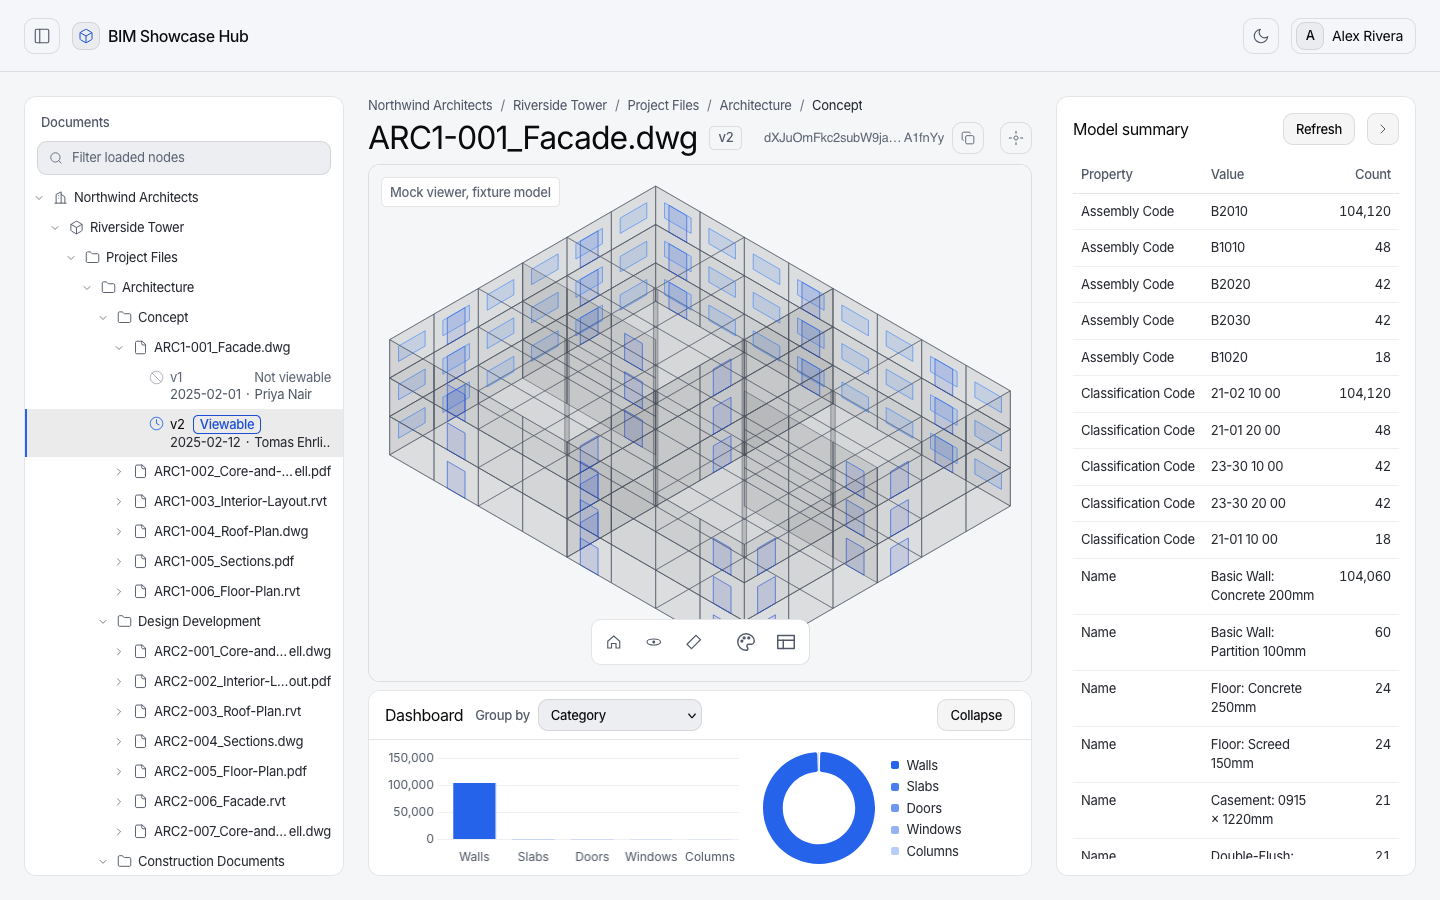
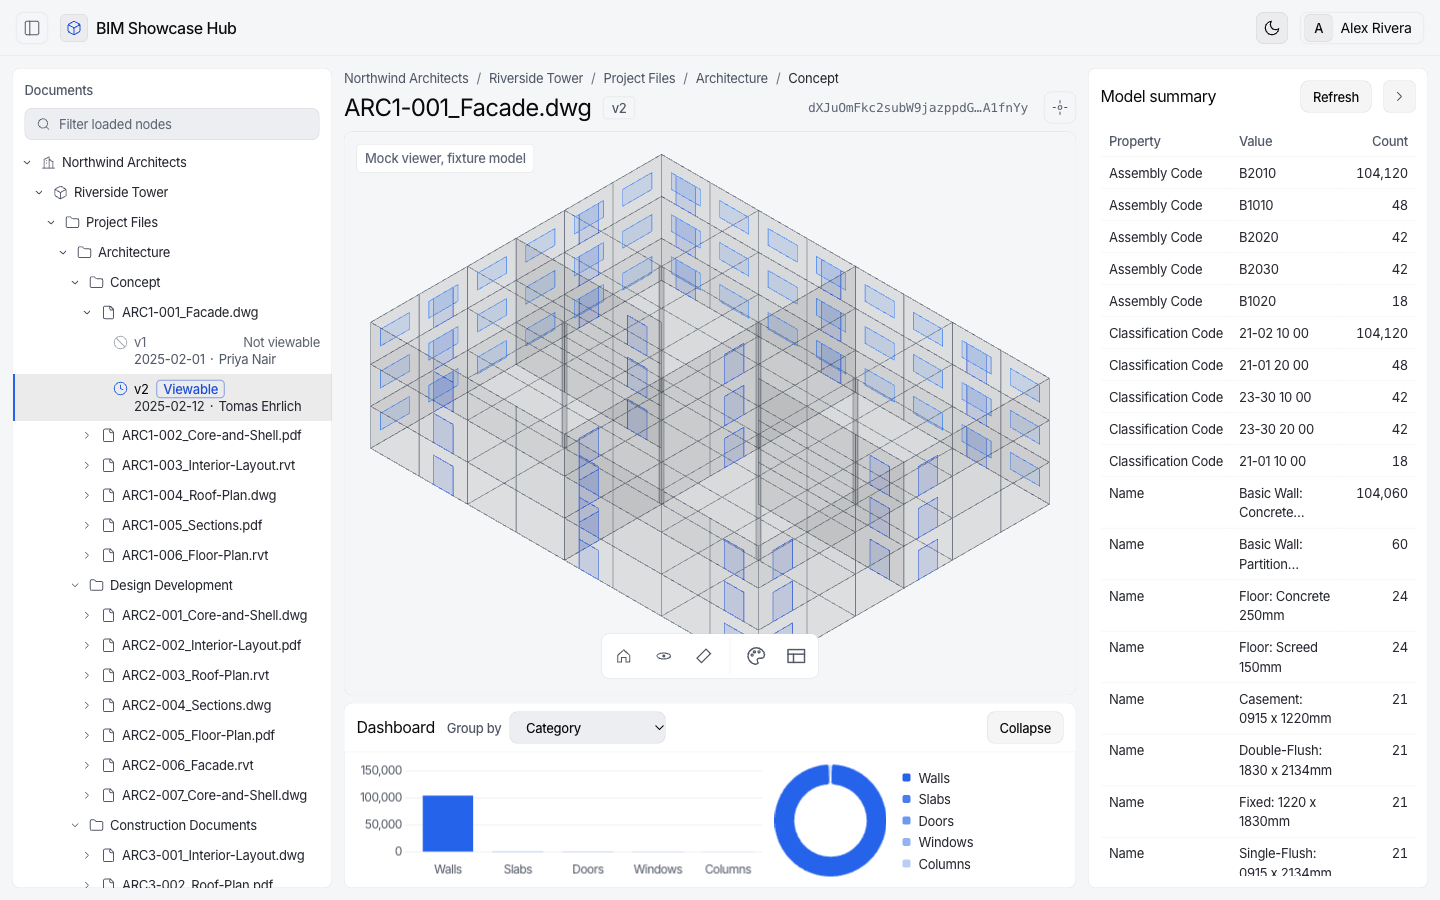
style(web): tighten spacing and radii

diff --git a/src/web/styles/shell.css b/src/web/styles/shell.css
@@ -32,8 +32,8 @@
   align-items: center;
   justify-content: center;
   gap: var(--gap-element);
-  min-height: 36px;
-  padding: 0 var(--space-4);
+  min-height: var(--hit-target);
+  padding: 0 var(--space-3);
   border: var(--border-hairline);
   border-radius: var(--radius-button);
   background: var(--color-ghost-fill);
@@ -72,7 +72,7 @@
 }
 
 .btn-small {
-  min-height: 28px;
+  min-height: var(--hit-target);
   padding: 0 var(--space-3);
   font-size: var(--text-13);
 }
@@ -81,8 +81,8 @@
   display: inline-flex;
   align-items: center;
   justify-content: center;
-  width: 36px;
-  height: 36px;
+  width: var(--hit-target);
+  height: var(--hit-target);
   border: var(--border-hairline);
   border-radius: var(--radius-button);
   background: transparent;
@@ -99,8 +99,8 @@
   display: inline-flex;
   align-items: center;
   justify-content: center;
-  width: 40px;
-  height: 40px;
+  width: 32px;
+  height: 32px;
   border: var(--border-hairline);
   border-radius: var(--radius-tile);
   background: var(--color-ghost-fill);
@@ -170,7 +170,7 @@
   align-items: center;
   gap: var(--space-3);
   height: 100%;
-  padding: 0 var(--gutter);
+  padding: 0 var(--gutter-page);
 }
 
 .topbar__spacer {
@@ -213,7 +213,7 @@
   display: inline-flex;
   align-items: center;
   gap: var(--gap-element);
-  min-height: 36px;
+  min-height: var(--hit-target);
   padding: 0 var(--space-3) 0 var(--space-1);
   border: var(--border-hairline);
   border-radius: var(--radius-button);
@@ -331,7 +331,7 @@
 }
 
 .app-loading {
-  padding: var(--space-8);
+  padding: var(--space-6);
   color: var(--color-fog);
 }
 
@@ -344,7 +344,7 @@
   max-width: 480px;
   min-height: 100%;
   margin: 0 auto;
-  padding: var(--space-8);
+  padding: var(--space-6);
   text-align: center;
 }
 
@@ -397,7 +397,7 @@
   align-items: center;
   justify-content: center;
   min-height: 100%;
-  padding: var(--space-8) var(--gutter);
+  padding: var(--space-8) var(--gutter-page);
 }
 
 .not-found .state-block {
@@ -436,7 +436,7 @@
 }
 
 .not-found .state-block__action {
-  min-height: 36px;
-  padding: 0 var(--space-4);
+  min-height: var(--hit-target);
+  padding: 0 var(--space-3);
   font-size: var(--text-14);
 }

diff --git a/src/web/panels/panels.css b/src/web/panels/panels.css
@@ -4,7 +4,7 @@
   gap: var(--space-3);
   min-width: 0;
   min-height: 0;
-  padding: var(--space-4);
+  padding: var(--padding-panel);
   background: var(--color-graphite);
   border: var(--border-hairline);
   border-radius: var(--radius-card);
@@ -45,7 +45,7 @@
 
 .bsh-button,
 .bsh-select {
-  min-height: 32px;
+  min-height: var(--hit-target);
   padding: 0 var(--space-3);
   background: var(--color-ghost-fill);
   color: var(--color-snow);
@@ -85,8 +85,8 @@
 .bsh-icon-button {
   display: grid;
   place-items: center;
-  width: 32px;
-  height: 32px;
+  width: var(--hit-target);
+  height: var(--hit-target);
   padding: 0;
   background: var(--color-ghost-fill);
   border: var(--border-hairline);
@@ -157,7 +157,7 @@
   position: sticky;
   top: 0;
   z-index: 1;
-  padding: var(--space-2);
+  padding: var(--row-padding);
   background: var(--color-graphite);
   color: var(--color-fog);
   font-weight: var(--weight-label);
@@ -167,7 +167,7 @@
 }
 
 .bsh-table td {
-  padding: var(--space-2);
+  padding: var(--row-padding);
   color: var(--color-chalk);
   border-bottom: 0.5px solid var(--color-hairline-faint);
 }
@@ -230,8 +230,8 @@
   z-index: 2;
   flex-wrap: wrap;
   justify-content: flex-start;
-  min-height: 40px;
-  padding: var(--space-2) var(--space-4);
+  min-height: 36px;
+  padding: var(--space-2) var(--padding-panel);
   background: var(--color-graphite);
   border-radius: var(--radius-card) var(--radius-card) 0 0;
 }
@@ -266,7 +266,7 @@
 
 .bsh-drawer__body {
   height: var(--drawer-body);
-  padding: var(--space-2) var(--space-4);
+  padding: var(--space-2) var(--padding-panel);
   overflow: auto;
   border-top: var(--border-hairline);
 }

diff --git a/src/web/styles/tokens.css b/src/web/styles/tokens.css
@@ -100,6 +100,7 @@
   --text-14: 14px;
   --text-16: 16px;
   --text-18: 18px;
+  --text-24: 24px;
   --text-32: 32px;
   --text-42: 42px;
   --text-52: 52px;
@@ -126,29 +127,33 @@
   --space-8: 32px;
   --space-12: 48px;
   --space-24: 96px;
-  --gutter: var(--space-6);
+  --gutter: var(--space-3);
+  --gutter-page: var(--space-4);
 
   --gap-element: 8px;
-  --padding-card: 28px;
+  --padding-card: var(--space-4);
+  --padding-panel: var(--space-3);
+  --row-padding: 6px var(--space-2);
   --section-gap: 96px;
   --content-max: 1080px;
-  --nav-height: 72px;
+  --nav-height: 56px;
 
-  --radius-badge: 5px;
-  --radius-tile: 9px;
-  --radius-button: 10px;
-  --radius-card: 12px;
-  --radius-container: 24px;
+  --radius-badge: 4px;
+  --radius-tile: 6px;
+  --radius-button: 8px;
+  --radius-card: 8px;
+  --radius-container: 12px;
 
   --border-hairline: 0.5px solid var(--color-hairline);
   --shadow-inset: inset 0 1px 0 var(--color-inset-highlight);
   --ring-width: 2px;
   --ring-offset: 2px;
   --transition-ui: 120ms ease;
+  --hit-target: 32px;
 }
 
-@media (max-width: 700px) {
+@media (pointer: coarse), (max-width: 700px) {
   :root {
-    --gutter: var(--space-4);
+    --hit-target: 44px;
   }
 }

diff --git a/src/web/styles/model.css b/src/web/styles/model.css
@@ -4,12 +4,12 @@
     "head summary"
     "viewer summary"
     "dashboard summary";
-  grid-template-columns: minmax(560px, 1fr) minmax(280px, 360px);
+  grid-template-columns: minmax(560px, 1fr) minmax(280px, 340px);
   grid-template-rows: auto minmax(280px, 1fr) auto;
   transition: grid-template-columns 160ms ease;
   gap: var(--space-2) var(--gutter);
   height: 100%;
-  min-height: 600px;
+  min-height: 560px;
   padding: var(--gutter);
 }
 
@@ -103,7 +103,7 @@
   align-items: center;
   gap: var(--space-3);
   min-width: 0;
-  font-size: var(--text-32);
+  font-size: var(--text-24);
   letter-spacing: var(--tracking-tight);
   line-height: 1.15;
 }

diff --git a/src/web/styles/landing.css b/src/web/styles/landing.css
@@ -5,7 +5,7 @@
 .landing {
   max-width: var(--content-max);
   margin: 0 auto;
-  padding: var(--section-gap) var(--gutter) var(--section-gap);
+  padding: var(--section-gap) var(--gutter-page) var(--section-gap);
 }
 
 .landing__auth-error {
@@ -335,7 +335,7 @@
   gap: var(--space-6);
   max-width: var(--content-max);
   margin: 0 auto;
-  padding: var(--space-12) var(--gutter);
+  padding: var(--space-12) var(--gutter-page);
 }
 
 .landing-footer__name {

diff --git a/src/web/styles/tree.css b/src/web/styles/tree.css
@@ -18,7 +18,7 @@
 }
 
 .tree-panel__head {
-  padding: var(--space-4) var(--space-4) var(--space-2);
+  padding: var(--space-3) var(--space-3) var(--space-2);
 }
 
 .tree-panel__title {
@@ -51,7 +51,7 @@
 
 .doc-tree__search input {
   width: 100%;
-  height: 34px;
+  height: var(--hit-target);
   padding: 0 34px 0 34px;
   border: var(--border-hairline);
   border-radius: var(--radius-button);

diff --git a/src/web/components/tree/DocumentTree.tsx b/src/web/components/tree/DocumentTree.tsx
@@ -507,7 +507,7 @@ export function DocumentTree({
       );
     }
 
-    const indent = `calc(var(--space-2) + ${row.level * 16 + 20}px)`;
+    const indent = `calc(var(--space-2) + ${row.level * 12 + 20}px)`;
     return (
       <div
         key={row.key}

diff --git a/src/web/viewer/viewer.css b/src/web/viewer/viewer.css
@@ -37,7 +37,7 @@
 .bsh-viewer-error {
   align-items: center;
   max-width: min(440px, 88%);
-  padding: var(--space-6);
+  padding: var(--space-4);
   border: var(--border-hairline);
   border-radius: var(--radius-card);
   background: var(--color-graphite);

diff --git a/src/web/components/tree/TreeRowView.tsx b/src/web/components/tree/TreeRowView.tsx
@@ -4,7 +4,7 @@ import { Icon, type IconName } from '../icons.js';
 
 export const ROW_HEIGHT = 30;
 export const TWO_LINE_ROW_HEIGHT = 46;
-const INDENT = 16;
+const INDENT = 12;
 
 const KIND_ICON: Record<TreeNodeKind, IconName> = {
   hub: 'hub',

diff --git a/DESIGN.md b/DESIGN.md
@@ -45,14 +45,17 @@ Green and red are reserved for success and destructive signals. Never decorative
 - Family: Inter variable, with `font-feature-settings: "ss01", "ss03"`.
 - Headlines: weight 400 at 32px and above. Display sizes 52 to 64px.
 - Body and UI: weights 420 to 480, sizes 13 to 18px. Weight 500 for small labels, 580 rarely.
-- Scale: 8, 13, 14, 16, 18, 32, 42, 52, 64px.
+- Scale: 8, 13, 14, 16, 18, 24, 32, 42, 52, 64px. The 24px step is the model page title.
 - Tracking: about -0.02 to -0.03em at body sizes, slightly looser at display sizes.
 
 ## Spacing and shape
 
 - Base unit 4px, compact density.
-- Max content width 1080px. 96px between sections. 28px card padding. 8px element gap.
-- Radii: buttons and pills 10px, cards 12px, icon tiles 9px, badges 5px, large containers up to 24px.
+- Max content width 1080px. 96px between sections. 16px card padding, 12px panel padding. 8px element gap.
+- App gutter between panes 12px, page gutter 16px. Summary table cells 6px by 8px.
+- Radii: buttons and pills 8px, cards 8px, icon tiles 6px, badges 4px, large containers 12px.
+- Hit targets are 32px on desktop and 44px on touch or at widths up to 700px.
+- Density adaptation: these values are tighter than the Refero spec (which has 28px cards, 10px and 12px radii, 24px containers and a 72px bar) on purpose, to give the viewer more screen. Keep new components on the tokens.
 
 ## Elevation
 
@@ -60,11 +63,11 @@ Depth comes from 0.5px translucent white hairline borders and 1px inset white hi
 
 ## Components
 
-- Primary button: bone fill, ink text, 10px radius, 14px text, light shadow. The only primary action style.
+- Primary button: bone fill, ink text, 8px radius, 14px text, light shadow. The only primary action style.
 - Secondary button: translucent white ghost fill, white text.
 - Text link: slightly transparent white, no padding or background.
 - Status badge: transparent background, thin mint border, mint text, small dot prefix.
-- Card: graphite background, 12px radius, 28px padding, 0.5px hairline border.
+- Card: graphite background, 8px radius, 16px padding, 0.5px hairline border.
 - Data table row: graphite background, faint row dividers, chalk cell text, small muted column headers.
 - Icon tile: translucent white fill, faint border, monochrome icon.
 - Feature card: graphite, blue icons, white active-tab indicator.
@@ -73,7 +76,7 @@ Depth comes from 0.5px translucent white hairline borders and 1px inset white hi
 
 - Hero: two columns, headline about 60% left, supporting copy and CTA about 40% right, product mockup full width below.
 - Feature sections: tab list about 30%, mockup about 70%.
-- Navigation: sticky 72px top bar, blurred translucent background on scroll.
+- Navigation: sticky 56px top bar, blurred translucent background on scroll.
 - No photography, no gradients. Visuals are dark product UI, data tables and icon tiles.
 
 ## Do
@@ -146,7 +149,7 @@ Paint swatches keep their fixed data colors in both themes. The mock viewer fill
 ### Light rules
 
 - Same character: 0.5px hairline borders, weight 400 headings, no gradients, blue only for active, links, icons and availability, mint and coral only for status.
-- Primary CTA is inverted: ink fill (bone token), white label (ink token), 10px radius, hover goes to snow.
+- Primary CTA is inverted: ink fill (bone token), white label (ink token), 8px radius, hover goes to snow.
 - Elevation: no inset highlight. The only cast shadow stays on the landing product mockups, `0 24px 48px rgb(15 23 42 / 0.10)` in light against `rgb(0 0 0 / 0.4)` in dark. The primary button shadow is `0 1px 2px rgb(15 23 42 / 0.16)`.
 - Selection text is white on signal-blue in both themes (`on-accent`).
 - Every text pair verified in dark passes WCAG AA in light: body 13.3 to 14.4, secondary fog 6.0 to 7.1, selected row fog 6.0, ash 4.8 to 5.8, Viewable badge 5.6 to 6.7, mint 4.6 to 5.0, coral 5.2 to 5.6, CTA label 17.9, selection 5.2. Focus ring and icon fills pass 3:1.

diff --git a/docs/design-system.md b/docs/design-system.md
@@ -4,7 +4,9 @@
 
 ## Tokens
 
-`src/web/styles/tokens.css` declares every token as a CSS custom property. Color tokens are declared per theme, on `:root, :root[data-theme="dark"]` and on `:root[data-theme="light"]`; everything else sits on `:root`. Tokens: colors (`--color-void`, `--color-graphite`, `--color-signal-blue` and the rest of the DESIGN.md palette), font (`--font-sans`, Inter variable), text sizes (`--text-13` and up), weights, tracking, spacing (`--space-1` to `--space-24`), radii (`--radius-button`, `--radius-card` and others), the hairline border and shadows.
+`src/web/styles/tokens.css` declares every token as a CSS custom property. Color tokens are declared per theme, on `:root, :root[data-theme="dark"]` and on `:root[data-theme="light"]`; everything else sits on `:root`. Tokens: colors (`--color-void`, `--color-graphite`, `--color-signal-blue` and the rest of the DESIGN.md palette), font (`--font-sans`, Inter variable), text sizes (`--text-13` and up), weights, tracking, spacing (`--space-1` to `--space-24`), radii (`--radius-button`, `--radius-card` and others), density tokens (`--gutter` 12px between panes, `--gutter-page` 16px, `--padding-card` 16px, `--padding-panel` 12px, `--row-padding`, `--nav-height` 56px, `--hit-target` 32px, 44px on touch or up to 700px wide), the hairline border and shadows.
+
+The density values are an intentional adaptation of the Refero spec: radii, gutters, paddings and the top bar are tighter than the published values so the viewer gets more of the screen.
 
 Other stylesheets in `src/web/styles` (`global.css`, `shell.css`, `tree.css`, `landing.css`, `model.css`) and `src/web/panels/panels.css` read these variables. Component styles do not contain raw hex colors or pixel values that have a token.
 
